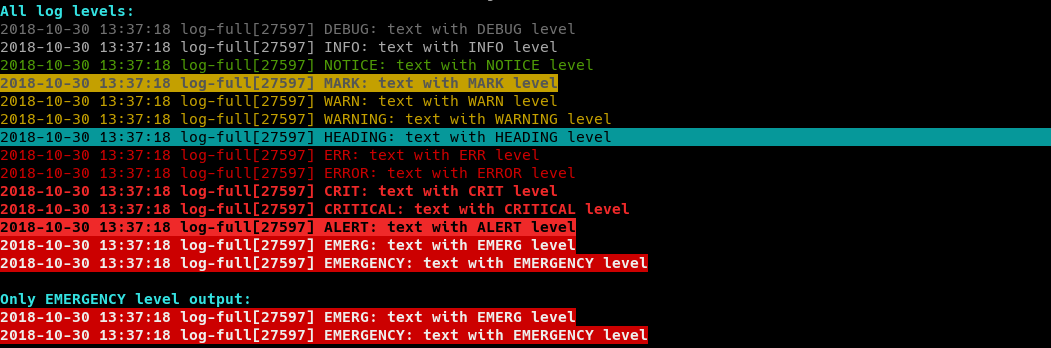
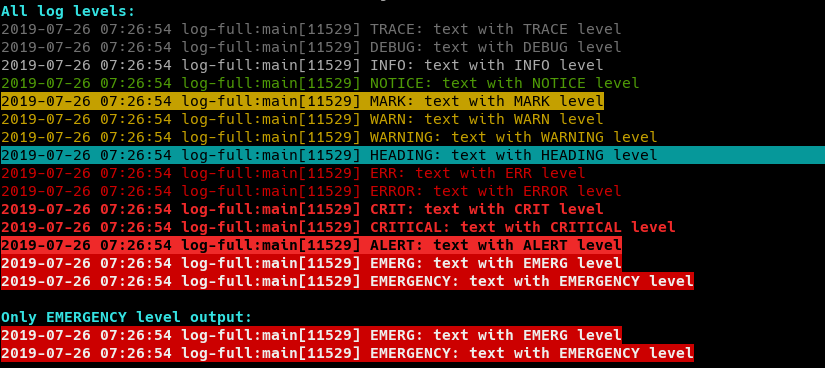
Add trace level in logging

diff --git a/docs/libs/log.md b/docs/libs/log.md
@@ -111,18 +111,19 @@ run-process |& log
 run-process |& log AUTO
 ```
 
-This will auto detect the concrete log level for each line. Currently `DEBUG`, `INFO`, `NOTICE`, `MARK`, `WARN`, `WARNING`, `HEADING`, `ERR`, `ERROR`, `CRIT`, `CRITICAL`, `ALERT`, `EMERG` and `EMERGENCY` will trigger the specified log type. Some other keywords are also interpreted and all other lines are output using the minimum level.
+This will auto detect the concrete log level for each line. Currently `TRACE`, `DEBUG`, `INFO`, `NOTICE`, `MARK`, `WARN`, `WARNING`, `HEADING`, `ERR`, `ERROR`, `CRIT`, `CRITICAL`, `ALERT`, `EMERG` and `EMERGENCY` will trigger the specified log type. Some other keywords are also interpreted and all other lines are output using the minimum level.
 
-You can also specify a higher minimum level as `DEBUG` by using:
+You can also specify a higher or lower minimum level as `DEBUG` by using:
 
 ```bash
 run-process |& log AUTO_INFO
 run-process |& log AUTO_WARN
+run-process |& log AUTO_TRACE
 ```
 
-If this is set the minimum level be the given one but it will be increased by autodetection.
+If this is set the minimum level be the given one but it will be increased by auto detection.
 
-To add more rules for the autodetection you may add a regular expression per each log level:
+To add more rules for the auto detection you may add a regular expression per each log level:
 
 ```bash
 declare -A LOG_AUTO # only needed if defined before loading the liubrary
@@ -138,14 +139,15 @@ Eight logging levels are supported, combining the levels from the Python logging
 
 | Level              | Numeric | Syslog | Origin        | Usage                                     |
 | ------------------ | ------- | ------ | ------------- | ----------------------------------------- |
-| DEBUG              | 10      | 7      | RFC 5424      | Everything not specified                  |
+| TRACE or VERBOSE   | 5       | 7      | Log Utilities | Very detailed logging (not always used)   |
+| DEBUG              | 10      | 7      | RFC 5424      | Diagnostically helpful messages           |
 | INFO               | 20      | 6      | RFC 5424      | Something which may be useful to know     |
-| NOTICE             | 25      | 5      | RFC 5424      | Success message or step done              |
+| NOTICE or NOTE     | 25      | 5      | RFC 5424      | Success message or step done              |
 | MARK               | 25      | 5      | own extension | Special marked like information asked for |
-| WARN or WARNING    | 30      | 4      | RFC 5424      | Warning which may be ok                   |
+| WARN or WARNING    | 30      | 4      | RFC 5424      | Warning which may be OK                   |
 | HEADING            | 35      | 4      | own extension | Start of new bigger Part                  |
-| ERR or ERROR       | 40      | 3      | RFC 5424      | An error which can occure                 |
-| CRIT or CRITICAL   | 50      | 2      | RFC 5424      | An error which should not occure          |
+| ERR or ERROR       | 40      | 3      | RFC 5424      | An error which can occur                  |
+| CRIT or CRITICAL   | 50      | 2      | RFC 5424      | An error which should not occur           |
 | ALERT              | 60      | 1      | RFC 5424      | Very critical like incorrect method call  |
 | EMERG or EMERGENCY | 70      | 0      | RFC 5424      | Something which should never happen       |
 

diff --git a/docs/CHANGELOG.md b/docs/CHANGELOG.md
@@ -1,6 +1,7 @@
 # Last Changes
 
 -   Optimized logging within lock/unlock
+-   Support the TRACE level in logging to be more detailed as DEBUG
 
 ## Version 1.3.0 - 5th July 2019
 
